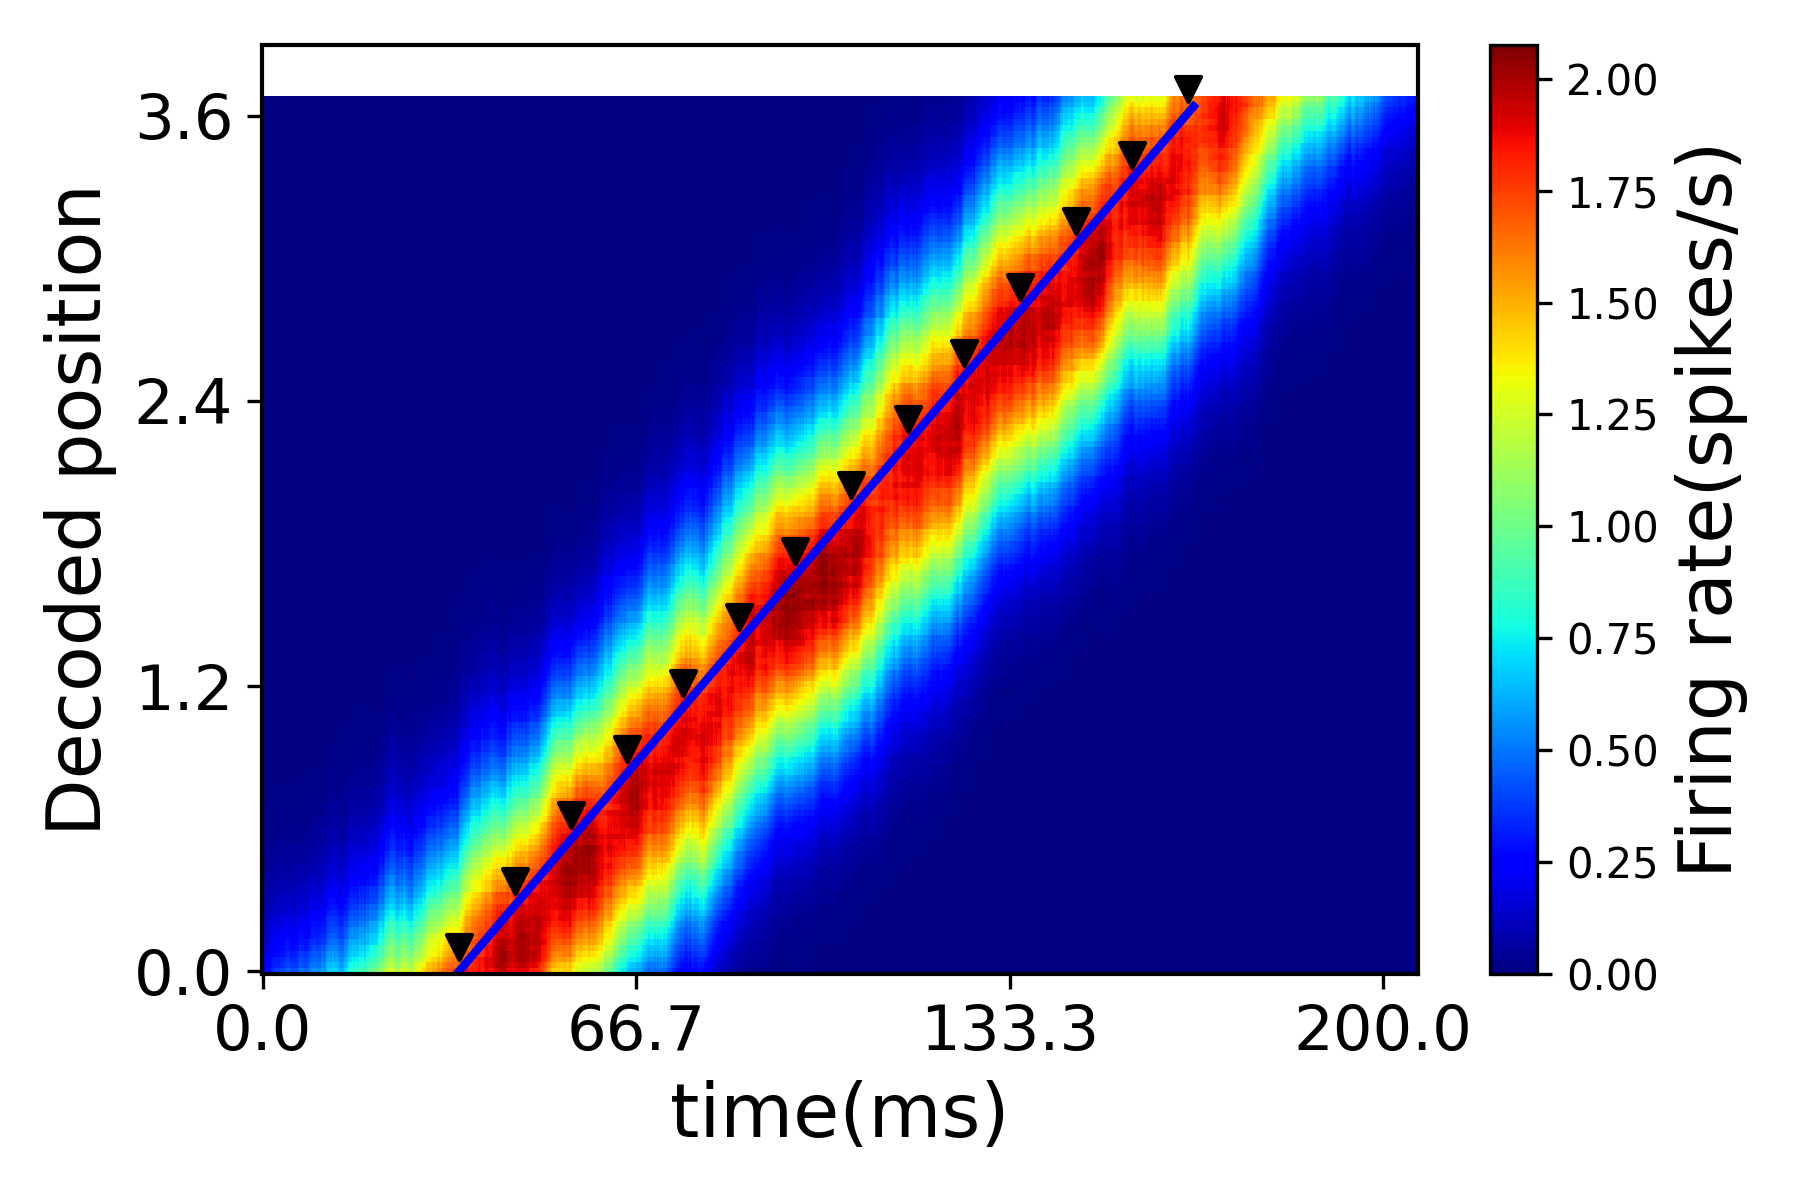
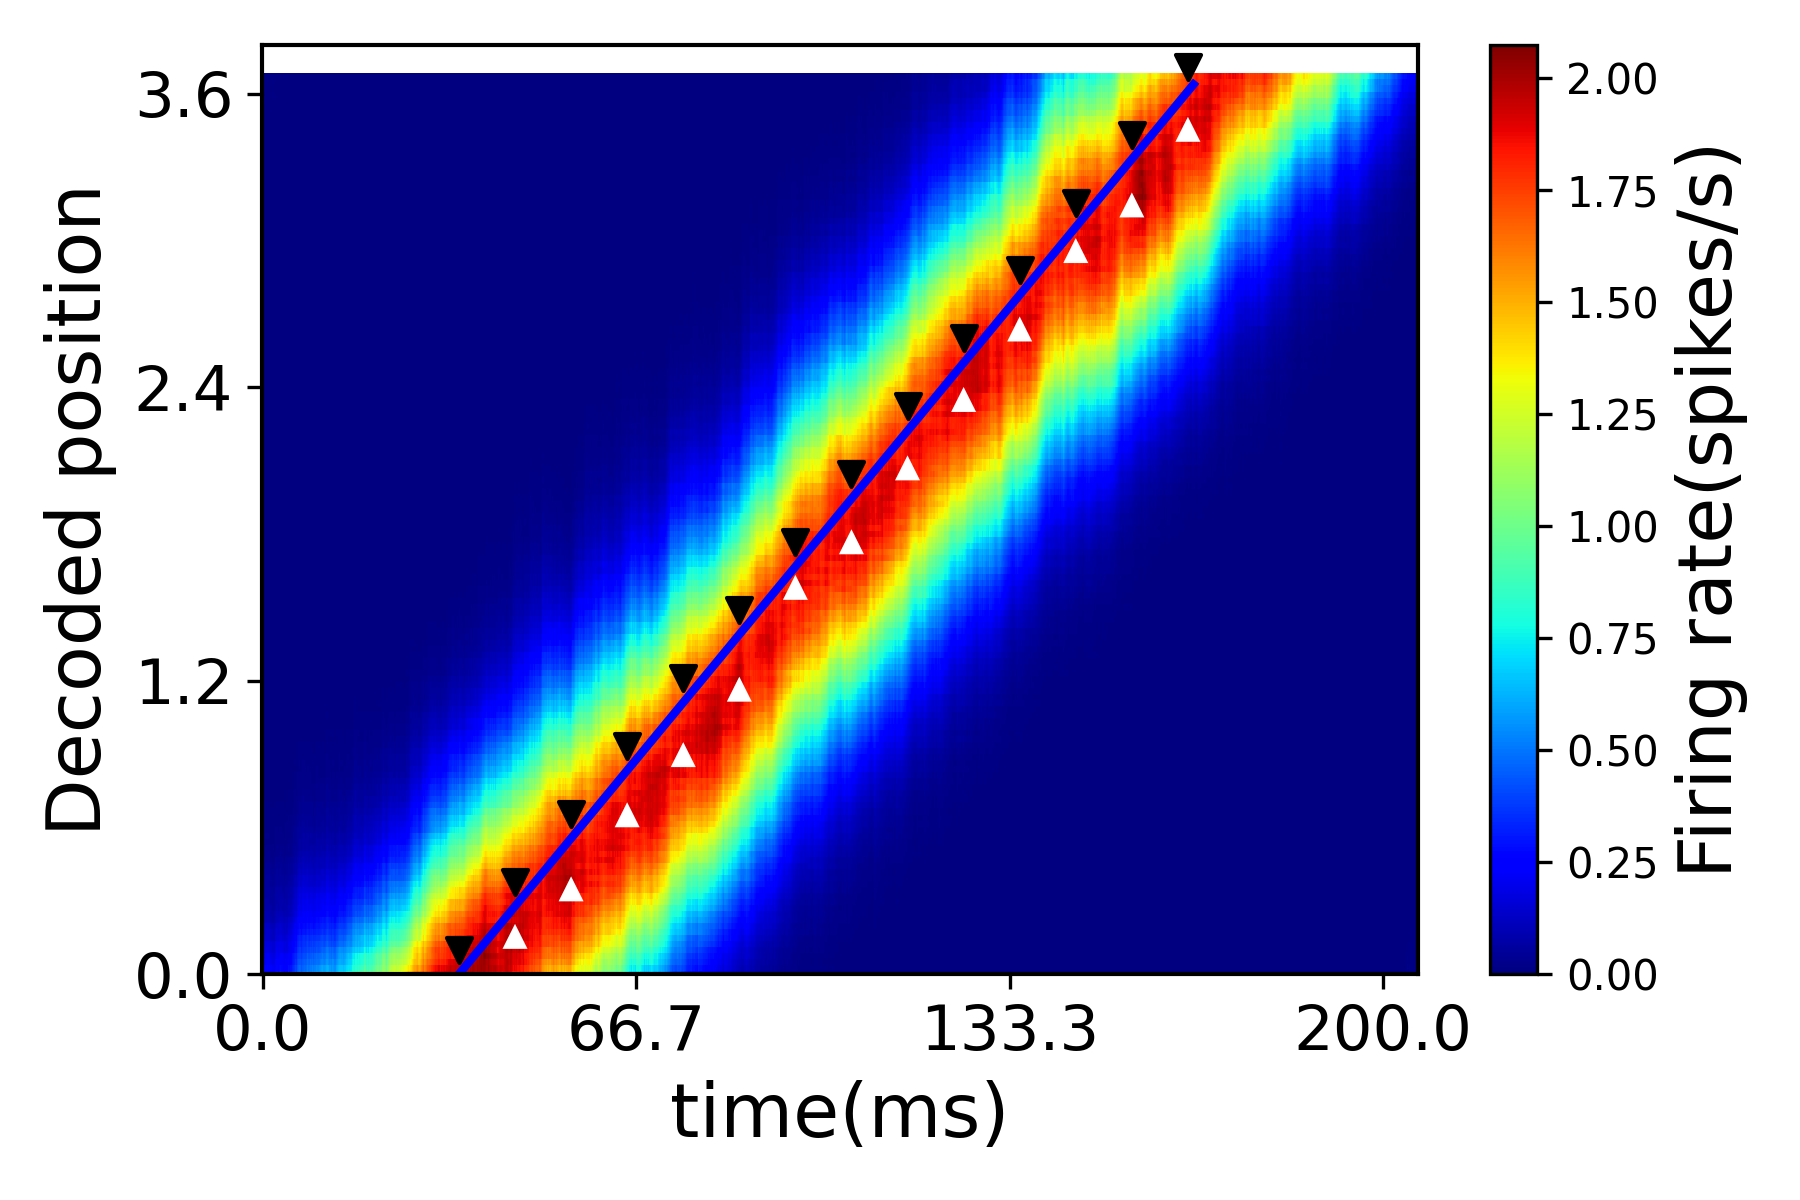
Fig2_2

Changed region(s): [[0.0622, 0.0308, 0.8089, 0.8325], [0.0622, 0.3083, 0.1244, 0.37], [0.0933, 0.555, 0.1244, 0.5858]]

diff --git a/fig2_2.py b/fig2_2.py
@@ -27,7 +27,7 @@ Iext = cann.get_stimulus_by_pos(position+0.5*np.random.randn(num,1)) + noise
 
 runner = bp.DSRunner(cann,
                      inputs=('input', Iext, 'iter'),
-                     monitors=['u', 'v', 'r'])
+                     monitors=['u', 'v', 'r','center'])
 
 runner.run(dur)
 fig = plt.figure(figsize=(6, 4))
@@ -42,17 +42,20 @@ ax.spines['left'].set_linewidth(1)
 index = np.linspace(1, cann.num, cann.num)
 # index = np.linspace(0, 300, 300)
 fr = runner.mon.r.T
+cU = runner.mon.center
 pos = np.linspace(-np.pi,np.pi,cann.num)
 # plt.pcolormesh(index,position, fr[100:400,:])
 im = plt.pcolormesh(time[100:-100]-time[100], pos[50:200] - pos[50], 1e3*fr[50:200,100:-100], cmap='jet')
 time_slice = 450
 plt.scatter(time[time_slice:-time_slice-50:100]-time[100], position[time_slice:-time_slice-50:100]-position[time_slice]+0.1, marker='v',color = 'k')
+plt.scatter(time[time_slice:-time_slice-50:100]-time[100], cU[time_slice:-time_slice-50:100]-position[time_slice], marker='^', color='white', edgecolor='none')
 plt.plot(time[time_slice:-time_slice-50]-time[100], position[time_slice:-time_slice-50]-position[time_slice], 'b', linewidth=2)
 # 设置xtick和ytick的取值
 xticks = np.linspace(0,200,4)
 yticks = np.linspace(0,3.6,4)
 ax.set_xticks(xticks)
 ax.set_yticks(yticks)
+plt.ylim([0,3.8])
 # 设置xtick和ytick的字体大小
 ax.tick_params(axis='x', labelsize=tick_size)
 ax.tick_params(axis='y', labelsize=tick_size)
